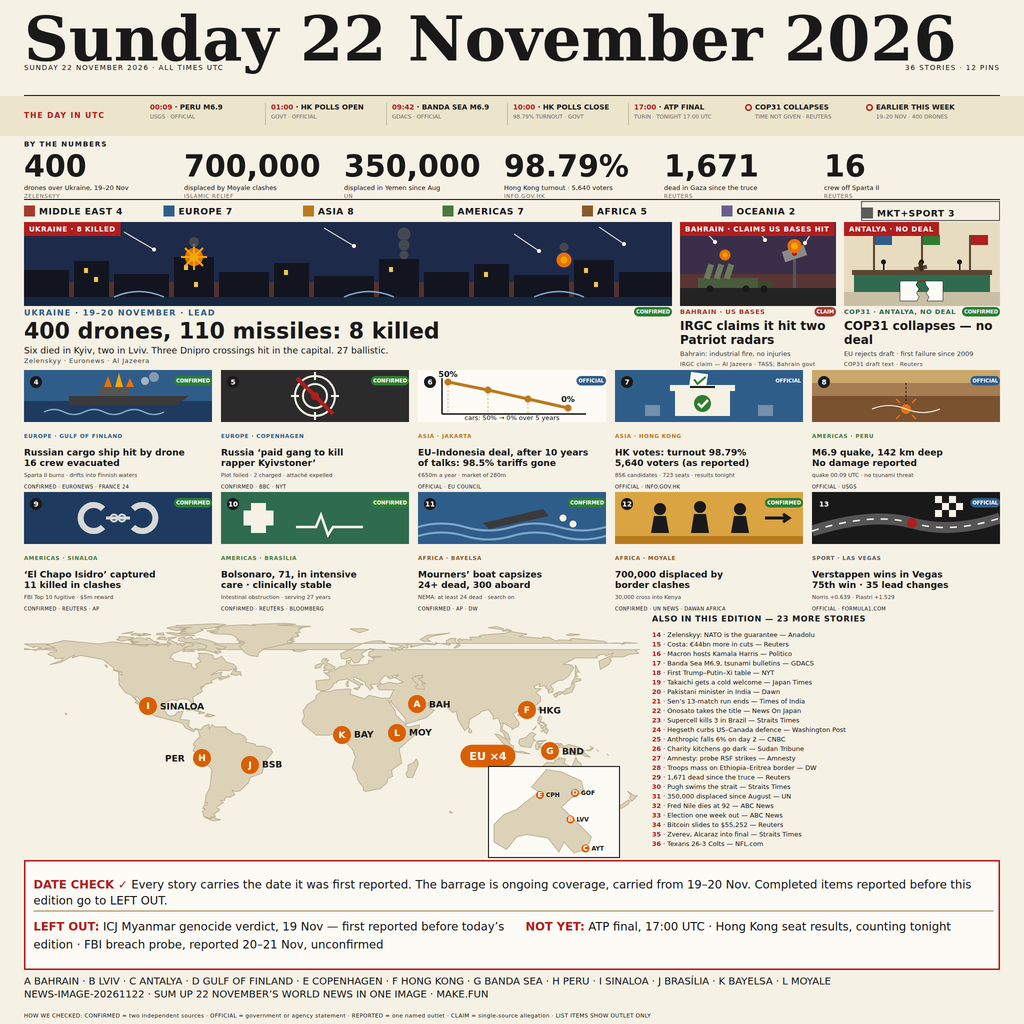
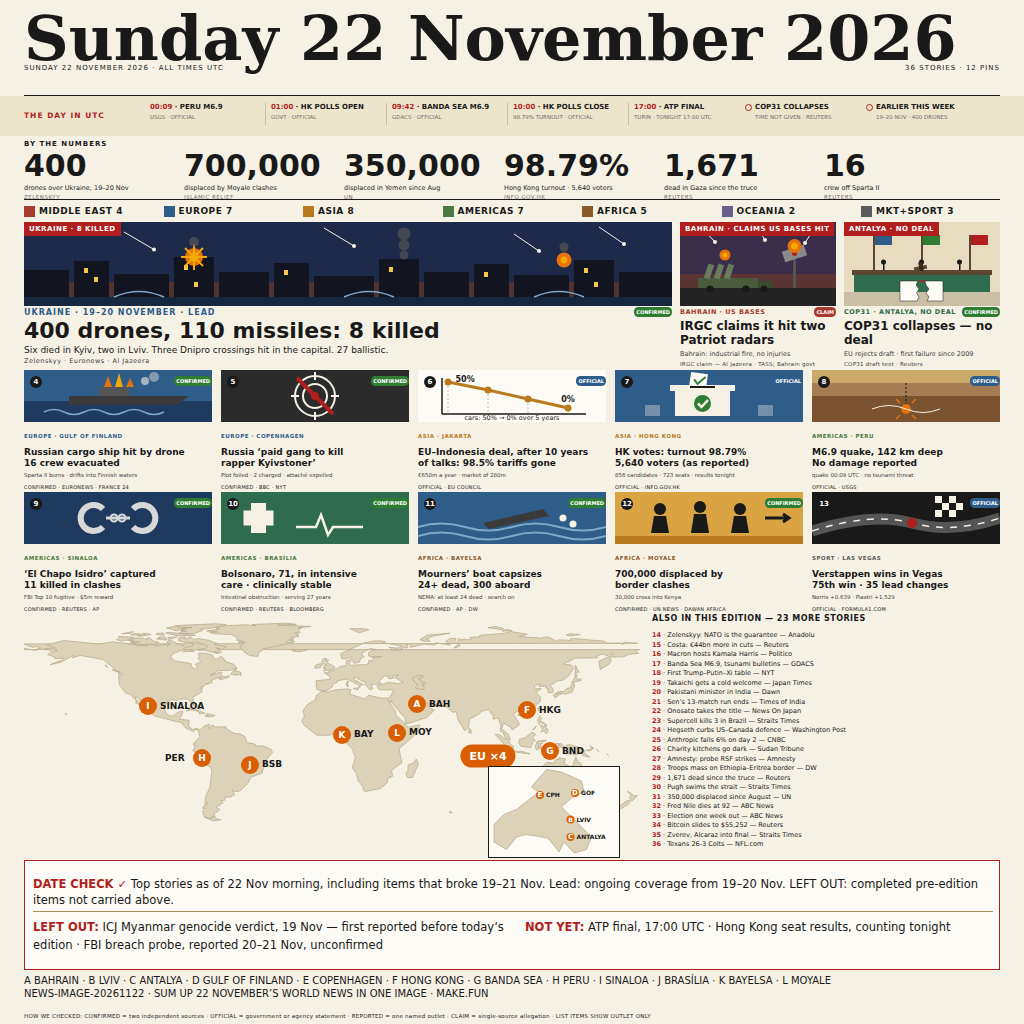
v8: 1 blocker + 5 should-fix — DATE CHECK narrowed, inset B 12px, LVV->LVIV, AYT->ANTALYA, MKT+SPORT chip unboxed, card 6 50% label moved, DC rule +2px, 10:00 tick OFFICIAL; main.py v8 self-check

diff --git a/build/front.html b/build/front.html
@@ -62,9 +62,9 @@ body { width:2048px; height:2048px; background:#F6F1E5; font-family:'DejaVu Sans
 .dc { position:absolute; left:48px; top:1720px; width:1952px; height:220px; border:3px solid #B01E1E; background:#FDFBF5; }
 .dc .l { position:absolute; left:16px; font-size:23px; white-space:nowrap; }
 .dc .l b { color:#B01E1E; }
-.dc .col { position:absolute; top:112px; width:950px; font-size:23px; line-height:36px; }
+.dc .col { position:absolute; top:114px; width:950px; font-size:23px; line-height:36px; }
 .dc .col b { color:#B01E1E; }
-.dc .rule { position:absolute; left:16px; top:98px; width:1920px; border-top:2px solid #A68B5B; }
+.dc .rule { position:absolute; left:16px; top:100px; width:1920px; border-top:2px solid #A68B5B; }
 .foot { position:absolute; left:48px; font-size:20px; line-height:32px; white-space:nowrap; }
 </style></head><body>
 
@@ -80,7 +80,7 @@ body { width:2048px; height:2048px; background:#F6F1E5; font-family:'DejaVu Sans
 <div class="tick" style="left:300px;"><div class="t1"><span class="tm">00:09</span> &middot; PERU M6.9</div><div class="t2">USGS &middot; OFFICIAL</div></div>
 <div class="tick" style="left:542px;"><div class="dv"></div><div class="t1"><span class="tm">01:00</span> &middot; HK POLLS OPEN</div><div class="t2">GOVT &middot; OFFICIAL</div></div>
 <div class="tick" style="left:784px;"><div class="dv"></div><div class="t1"><span class="tm">09:42</span> &middot; BANDA SEA M6.9</div><div class="t2">GDACS &middot; OFFICIAL</div></div>
-<div class="tick" style="left:1026px;"><div class="dv"></div><div class="t1"><span class="tm">10:00</span> &middot; HK POLLS CLOSE</div><div class="t2">98.79% TURNOUT &middot; GOVT</div></div>
+<div class="tick" style="left:1026px;"><div class="dv"></div><div class="t1"><span class="tm">10:00</span> &middot; HK POLLS CLOSE</div><div class="t2">98.79% TURNOUT &middot; OFFICIAL</div></div>
 <div class="tick" style="left:1268px;"><div class="dv"></div><div class="t1"><span class="tm">17:00</span> &middot; ATP FINAL</div><div class="t2">TURIN &middot; TONIGHT 17:00 UTC</div></div>
 <div class="tick" style="left:1510px;"><div class="om"></div><div class="t1">COP31 COLLAPSES</div><div class="t2">TIME NOT GIVEN &middot; REUTERS</div></div>
 <div class="tick" style="left:1752px;"><div class="om"></div><div class="t1">EARLIER THIS WEEK</div><div class="t2">19&ndash;20 NOV &middot; 400 DRONES</div></div>
@@ -102,7 +102,7 @@ body { width:2048px; height:2048px; background:#F6F1E5; font-family:'DejaVu Sans
 <div class="key" style="left:885px; width:279px;"><div class="sw" style="background:#4A7A3D;"></div><div class="nm">AMERICAS 7</div></div>
 <div class="key" style="left:1164px; width:279px;"><div class="sw" style="background:#8A5A28;"></div><div class="nm">AFRICA 5</div></div>
 <div class="key" style="left:1443px; width:279px;"><div class="sw" style="background:#6A5E8C;"></div><div class="nm">OCEANIA 2</div></div>
-<div class="key" style="left:1722px; width:278px; border:2px solid #5A5A5A; height:40px; top:402px;"><div class="sw" style="background:#5A5A5A;"></div><div class="nm">MKT+SPORT 3</div></div>
+<div class="key" style="left:1722px; width:278px;"><div class="sw" style="background:#5A5A5A;"></div><div class="nm">MKT+SPORT 3</div></div>
 
 <!-- HEROES 444-740 -->
 <div class="lead">
@@ -151,7 +151,7 @@ body { width:2048px; height:2048px; background:#F6F1E5; font-family:'DejaVu Sans
 <div class="so">CONFIRMED &middot; BBC &middot; NYT</div>
 </div>
 <div class="bcard" style="left:836px; top:740px;">
-<svg width="376" height="104" viewBox="0 0 376 104"><rect width="376" height="104" fill="#FDFBF5"/><path d="M48 88 L336 88" stroke="#191919" stroke-width="3"/><path d="M48 16 L48 88" stroke="#191919" stroke-width="3"/><path d="M60 24 L60 88 M140 40 L140 88 M220 58 L220 88 M300 76 L300 88" stroke="#B97A1E" stroke-width="2" stroke-dasharray="4 4" opacity="0.5"/><path d="M60 24 L140 40 L220 58 L300 76" stroke="#B97A1E" stroke-width="6" fill="none"/><g fill="#B97A1E"><circle cx="60" cy="24" r="7"/><circle cx="140" cy="40" r="7"/><circle cx="220" cy="58" r="7"/><circle cx="300" cy="76" r="7"/></g><g font-family="DejaVu Sans" font-size="16" font-weight="bold" fill="#191919"><text x="60" y="14" text-anchor="middle">50%</text><text x="300" y="64" text-anchor="middle">0%</text></g><text x="188" y="100" text-anchor="middle" font-family="DejaVu Sans" font-size="13" fill="#191919">cars: 50% &rarr; 0% over 5 years</text></svg>
+<svg width="376" height="104" viewBox="0 0 376 104"><rect width="376" height="104" fill="#FDFBF5"/><path d="M48 88 L336 88" stroke="#191919" stroke-width="3"/><path d="M48 16 L48 88" stroke="#191919" stroke-width="3"/><path d="M60 24 L60 88 M140 40 L140 88 M220 58 L220 88 M300 76 L300 88" stroke="#B97A1E" stroke-width="2" stroke-dasharray="4 4" opacity="0.5"/><path d="M60 24 L140 40 L220 58 L300 76" stroke="#B97A1E" stroke-width="6" fill="none"/><g fill="#B97A1E"><circle cx="60" cy="24" r="7"/><circle cx="140" cy="40" r="7"/><circle cx="220" cy="58" r="7"/><circle cx="300" cy="76" r="7"/></g><g font-family="DejaVu Sans" font-size="16" font-weight="bold" fill="#191919"><text x="75" y="24" text-anchor="start">50%</text><text x="300" y="64" text-anchor="middle">0%</text></g><text x="188" y="100" text-anchor="middle" font-family="DejaVu Sans" font-size="13" fill="#191919">cars: 50% &rarr; 0% over 5 years</text></svg>
 <div class="nb">6</div><div class="bdg b-off">OFFICIAL</div>
 <div class="kick" style="color:#B97A1E;">ASIA &middot; JAKARTA</div>
 <div class="head">EU&ndash;Indonesia deal, after 10 years<br>of talks: 98.5% tariffs gone</div>
@@ -234,11 +234,12 @@ body { width:2048px; height:2048px; background:#F6F1E5; font-family:'DejaVu Sans
 <div style="position:absolute; left:976px; top:1532px; width:264px; height:184px; background:#FDFBF5; border:2px solid #191919;">
   <svg width="264" height="184" viewBox="0 0 264 184">
     <path d="M10,150 L10,115 L30,95 L55,85 L80,65 L100,50 L85,40 L115,5 L145,10 L185,28 L190,50 L165,62 L145,80 L180,115 L205,140 L195,165 L170,172 L150,150 L140,170 L118,142 L75,135 L55,140 L35,165 Z" fill="#DCD2B8" stroke="#B7AB8E" stroke-width="1.5"/>
-    <g fill="#D95F02"><circle cx="102" cy="56" r="8"/><circle cx="172" cy="52" r="8"/><circle cx="163" cy="105" r="8"/><circle cx="193" cy="163" r="8"/></g>
+    <g fill="#D95F02"><circle cx="102" cy="56" r="8"/><circle cx="172" cy="52" r="8"/><circle cx="163" cy="105" r="8"/><circle cx="163" cy="140" r="8"/></g>
     <g font-family="DejaVu Sans" font-size="12" font-weight="bold" fill="#191919">
-      <text x="114" y="60">CPH</text><text x="184" y="56">GOF</text><text x="175" y="109">LVV</text><text x="205" y="167">AYT</text>
+      <text x="114" y="60">CPH</text><text x="184" y="56">GOF</text><text x="175" y="109">LVIV</text><text x="175" y="144">ANTALYA</text>
     </g>
-  <g font-family="DejaVu Sans" font-size="14" font-weight="bold" fill="#FFFFFF" text-anchor="middle"><text x="102" y="60">E</text><text x="172" y="56">D</text><text x="163" y="109">B</text><text x="193" y="167">C</text></g></svg>
+  <g font-family="DejaVu Sans" font-size="14" font-weight="bold" fill="#FFFFFF" text-anchor="middle"><text x="102" y="60">E</text><text x="172" y="56">D</text><text x="163" y="144">C</text></g>
+  <text x="163" y="109" font-family="DejaVu Sans" font-size="12" font-weight="bold" fill="#FFFFFF" text-anchor="middle">B</text></svg>
 </div>
 
 <!-- ALSO ON LIST 14-36 -->
@@ -271,7 +272,7 @@ body { width:2048px; height:2048px; background:#F6F1E5; font-family:'DejaVu Sans
 
 <!-- DATE CHECK 1720-1940 -->
 <div class="dc">
-  <div class="l" style="top:30px; width:1920px; white-space:normal; line-height:32px;"><b>DATE CHECK &check;</b> Every story carries the date it was first reported. The barrage is ongoing coverage, carried from 19&ndash;20 Nov. Completed items reported before this edition go to LEFT OUT.</div>
+  <div class="l" style="top:30px; width:1920px; white-space:normal; line-height:32px;"><b>DATE CHECK &check;</b> Top stories as of 22 Nov morning, including items that broke 19&ndash;21 Nov. Lead: ongoing coverage from 19&ndash;20 Nov. LEFT OUT: completed pre-edition items not carried above.</div>
   <div class="rule"></div>
   <div class="col" style="left:16px;"><b>LEFT OUT:</b> ICJ Myanmar genocide verdict, 19 Nov &mdash; first reported before today&rsquo;s edition &middot; FBI breach probe, reported 20&ndash;21 Nov, unconfirmed</div>
   <div class="col" style="left:1000px;"><b>NOT YET:</b> ATP final, 17:00 UTC &middot; Hong Kong seat results, counting tonight</div>

diff --git a/main.py b/main.py
@@ -17,11 +17,11 @@ MAX_BYTES = 1024 * 1024
 
 
 def check_front() -> None:
-    """v7 self-check: fail loudly if any v7 string regresses in the source.
+    """v8 self-check: fail loudly if any v7/v8 string regresses in the source.
 
     Reads build/front.html (the rendered page) and verifies the strings the
-    v7 fix round depends on. The build fails instead of shipping a page
-    that re-breaks a reviewer blocker.
+    v7 and v8 fix rounds depend on. The build fails instead of shipping a
+    page that re-breaks a reviewer blocker.
     """
     import re
 
@@ -54,6 +54,26 @@ def check_front() -> None:
         problems.append("17:00 UTC missing")
     if html.count("5,640 voters") < 2:
         problems.append("5,640 voters must appear in both the HK card and the stat (B4)")
+    # v8 B1: the DATE CHECK must use the narrowed wording, not the v7
+    # universal claims (Quick's v7 blocker: 35 of 36 stories show no date,
+    # and Texans 19 Nov / trilateral 19 Nov sit in the main list).
+    if "Every story carries the date" in html:
+        problems.append(
+            "v7 DATE CHECK claim still present (B1: use the narrowed wording)"
+        )
+    if html.count("carried above") != 1:
+        problems.append(
+            f"DATE CHECK must say 'carried above' exactly once "
+            f"(found {html.count('carried above')}) (B1)"
+        )
+    if "5,709" in html:
+        problems.append("derived 5,709 printed (B4: never print the derived total)")
+    if "LVV" in html:
+        problems.append("LVV still present (inset label must read LVIV)")
+    if "AYT" in html:
+        problems.append("AYT still present (inset label must read ANTALYA)")
+    if 'font-size="12" font-weight="bold" fill="#FFFFFF" text-anchor="middle">B</text>' not in html:
+        problems.append("inset pin B must be 12px (14px renders as a vertical bar)")
     # B3: every CONFIRMED card badge must name two outlets, scoped to the
     # big-cards block (heroes carry their sources in .src, not .so).
     cards = html[html.index("<!-- BIG CARDS"):html.index("<!-- MAP")]
@@ -65,9 +85,18 @@ def check_front() -> None:
             f"CONFIRMED badges ({badges}) != CONFIRMED .so lines ({len(so_lines)}) "
             f"!= two-outlet lines ({len(two)}) (B3)"
         )
+    # 36 story slots: 1 lead hero + 2 side heroes + 10 big cards + 23 list rows.
+    slots = (
+        html.count('<div class="lead">')
+        + html.count('<div class="rhero"')
+        + html.count('<div class="bcard"')
+        + html.count('<div class="row"')
+    )
+    if slots != 36:
+        problems.append(f"story slots must be 36 (found {slots})")
     if problems:
-        raise SystemExit("front.html v7 check failed:\n- " + "\n- ".join(problems))
-    print(f"front.html v7 check ok: {badges} CONFIRMED cards, all with 2 outlets")
+        raise SystemExit("front.html v8 check failed:\n- " + "\n- ".join(problems))
+    print(f"front.html v8 check ok: {badges} CONFIRMED cards, all with 2 outlets; 36 slots")
 
 
 def self_check(data: bytes) -> None:
